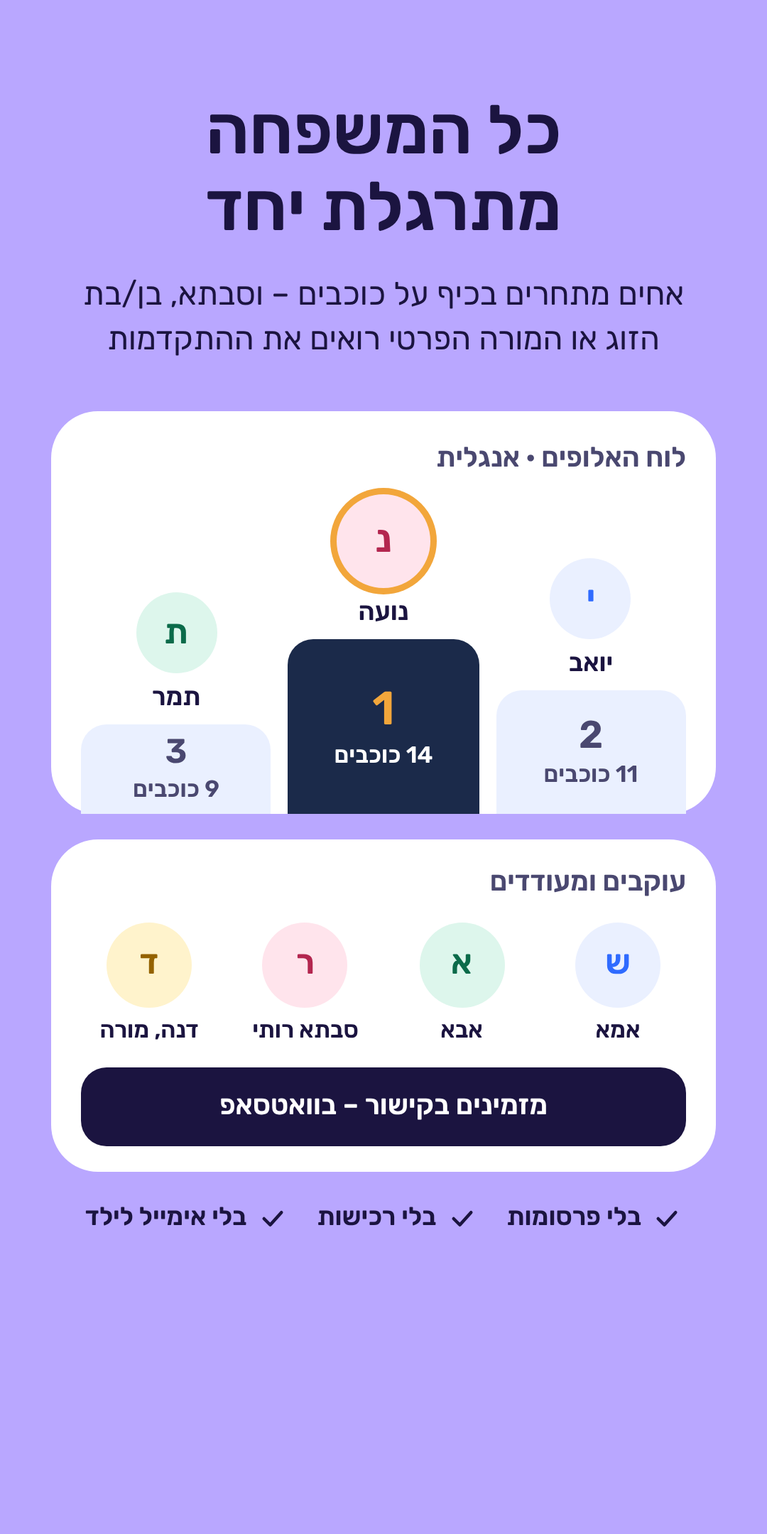
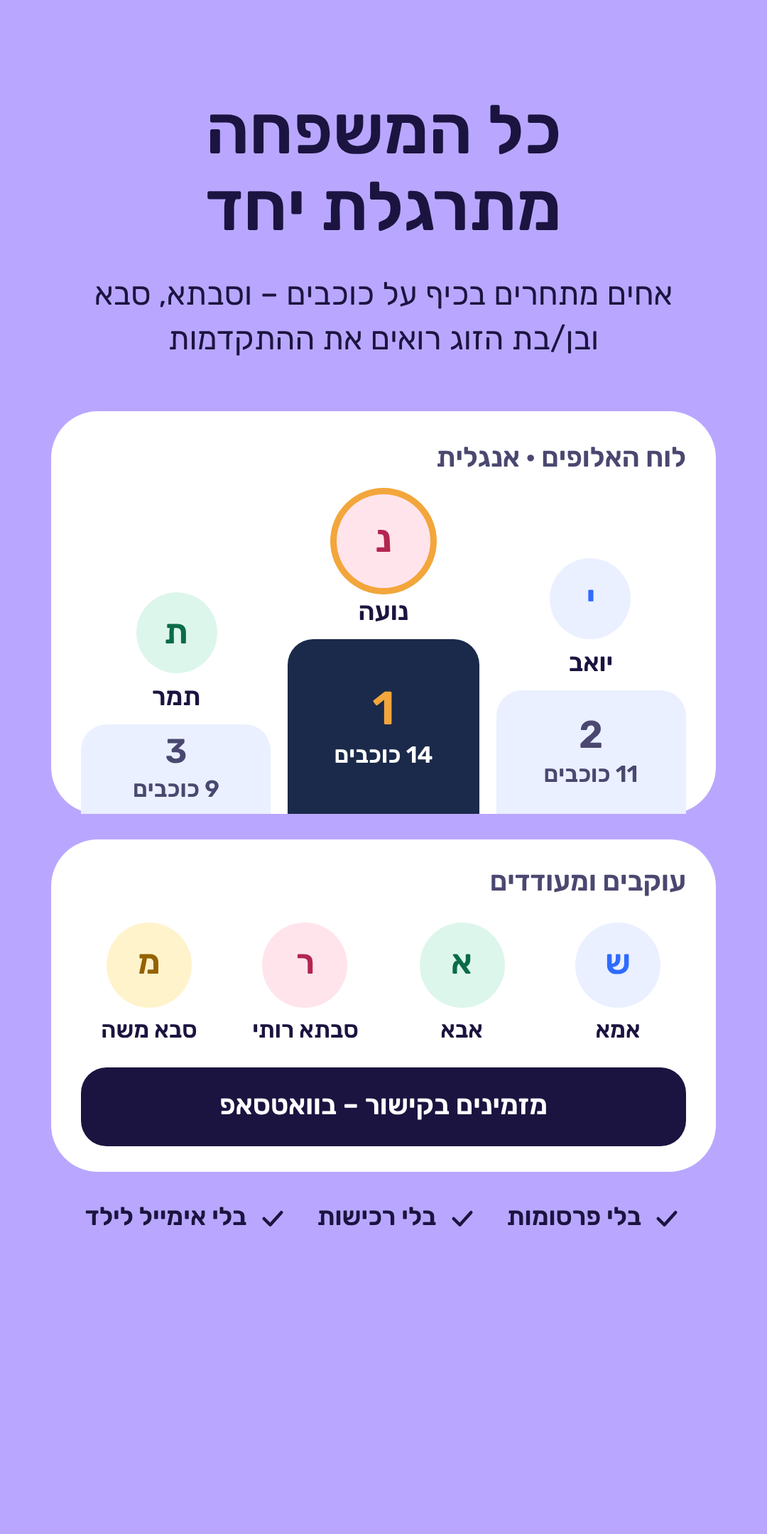
Store version for families: no ways into the teachers' app from the family app (TEACH_LINKS), family-only texts in the intro / store screens / guide, store pictures, listing; local_games: the loading screen in a local test
Claude-Session: https://claude.ai/code/session_018ARCFrnypinXbQosbA2nGK

diff --git a/public/index.html b/public/index.html
@@ -1549,6 +1549,9 @@ html.isadmin body:not(.locked) header .tabs[role=tablist]{display:inline-flex}
   const W = window, LS = W.localStorage;
   const TEACH = W.SFF_APP === 'teach', ACT = TEACH ? 'sff_active_teach' : 'sff_active_fam';   /* each app remembers its own open space */
 const EMAIL_LINK=false;   // true once Authentication → Sign-in method → Email/Password → Email link is enabled
+// the family app's ways into the teachers' app (sign-in ad, ☰ link, "to the teachers' app" for an adult with no family, a private
+// tutor's invitation): off while the store version is for families only (the owner's decision, 28.11); a test turns them on
+window.SFF_TEACH_ON=window.SFF_TEACH_LINKS===true; const TEACH_LINKS=window.SFF_TEACH_ON;
 const TERMS_VERSION = '2026-11-21';   // the date in tools/docs/terms-*.md (terms.html) – change both together; a new one is approved again
 const PRIVACY_VERSION = '2026-11-27'; // the date at the top of privacy.html – recorded with every approval (a change alone asks nothing again)
   W.__sffStage = 'module';
@@ -1754,7 +1757,7 @@ const PRIVACY_VERSION = '2026-11-27'; // the date at the top of privacy.html –
       else famInfo.splice(0, famInfo.length, ...famInfo.filter(x => x.kind !== 'class' && x.role !== 'tutor'));
       /* an adult with no family here (a teacher): to the teachers' app, or open a family of their own */
       if (!TEACH && !famInfo.length) {
-        const c = await familyChoice();
+        const c = TEACH_LINKS ? await familyChoice() : 'family';
         if (c === 'teach') { location.replace('/teach'); await new Promise(() => {}); }
         const own = F.doc(fdb, `families/${uid}`), os = await F.getDoc(own);
         const tok = os.exists() && os.data().inviteToken || rnd(18);
@@ -2049,7 +2052,7 @@ const PRIVACY_VERSION = '2026-11-27'; // the date at the top of privacy.html –
         el.querySelector('.fbwho').insertAdjacentHTML('beforeend', '<div class="hint fbtsub">כיתה, קבוצה או תלמידים פרטיים – וגם מורה פרטי/ת שמשפחה הזמינה</div>'); }
       /* the family app: a kid or a parent only – teachers are invited to their own app, below (the owner's decision, 27.11) */
       else { el.querySelector('#fbTeach').classList.add('hidden'); el.querySelector('.fbwho').classList.add('two');
-        el.querySelector('#fbErr').insertAdjacentHTML('afterend', `<div class="fbad"><span class="e" aria-hidden="true">🧑🏫</span><b>מורה? יש לנו אפליקציה בשבילך</b>
+        if (TEACH_LINKS) el.querySelector('#fbErr').insertAdjacentHTML('afterend', `<div class="fbad"><span class="e" aria-hidden="true">🧑🏫</span><b>מורה? יש לנו אפליקציה בשבילך</b>
           <span class="t">תרגול חוויתי במקום שיעורי בית – לכיתה או לתלמידים פרטיים. רואים מי תרגל, מי נתקע ומה כדאי לעשות היום.</span>
           <a id="fbTeachAd" href="/teach">לאפליקציה למורים ›</a></div><a class="fbother fbadl" id="fbTeachLink" href="/teach">🧑🏫 מורה? לאפליקציה למורים ›</a>`); }
       document.body.appendChild(el);
@@ -4918,7 +4921,7 @@ function placeItem(f,cur){ const on=f.id===cur, cls=f.kind==='class', priv=f.tea
 // both apps link to the other one in the account part (a teacher in the family app, everyone in the teachers' app)
 function menuArrange(TA, T){
   const acc=$('dGrpAcc')?.querySelector('.dcard'); if(!acc) return;
-  let o=$('dOtherApp'); if(!o&&(TA||T)){ acc.insertAdjacentHTML('afterbegin', TA?`<a class="ditem" id="dOtherApp" href="/"><span class="di">👨👩👧</span><span class="dl">לאפליקציה למשפחות</span><span class="dchev" aria-hidden="true">‹</span></a>`
+  let o=$('dOtherApp'); if(!o&&(TA||(T&&window.SFF_TEACH_ON))){ acc.insertAdjacentHTML('afterbegin', TA?`<a class="ditem" id="dOtherApp" href="/"><span class="di">👨👩👧</span><span class="dl">לאפליקציה למשפחות</span><span class="dchev" aria-hidden="true">‹</span></a>`
     :`<a class="ditem" id="dOtherApp" href="/teach"><span class="di">🧑🏫</span><span class="dl">לאפליקציה למורים</span><span class="dchev" aria-hidden="true">‹</span></a>`); }
   if(!TA||$('sideMenu').dataset.ta) return; $('sideMenu').dataset.ta='1';
   const panel=$('sideMenu').querySelector('.dpanel'), who=panel.querySelector('.dwho'); who.after($('dFams'));
@@ -5146,7 +5149,7 @@ function openInvite(){
   INV={role:'helper',kids:[]}; $('invName').value=''; $('invForm').classList.remove('hidden'); $('invDone').classList.add('hidden'); invRender(); $('invDlg').classList.remove('hidden');
 }
 function invRender(){
-  $('invRoles').innerHTML=['helper','tutor','admin'].map(r=>`<button class="${INV.role===r?'on':''}" onclick="INV.role='${r}';invRender()"><b>${ROLES[r][0]} ${ROLES[r][1]}</b><small>${ROLES[r][2]}</small></button>`).join('');
+  $('invRoles').innerHTML=(window.SFF_TEACH_ON?['helper','tutor','admin']:['helper','admin']).map(r=>`<button class="${INV.role===r?'on':''}" onclick="INV.role='${r}';invRender()"><b>${ROLES[r][0]} ${ROLES[r][1]}</b><small>${ROLES[r][2]}</small></button>`).join('');
   $('invKidsWrap').classList.toggle('hidden',INV.role!=='tutor');
   $('invKids').innerHTML=kids.map(k=>`<button class="${INV.kids.includes(k.id)?'on':''}" onclick="INV.kids=INV.kids.includes('${k.id}')?INV.kids.filter(x=>x!=='${k.id}'):INV.kids.concat('${k.id}');invRender()">${esc(k.name)}</button>`).join('');
 }
@@ -5234,7 +5237,7 @@ const INTRO={
       <div style="background:#2F6BFF">${IC.sv('#fff',26,IC.pad)}<b>משחק כיפי</b><span style="color:#E4ECFF">תחנה = משחק אחר</span></div>
       <div style="background:#F2A63B;color:#1B2A4A">${IC.sv('#1B2A4A',26,IC.doc)}<b>החומר שלכם</b><span>מצלמים דף – יש תרגול</span></div>
       <div style="background:#24C78E;color:#0E2E22">${IC.sv('#0E2E22',26,IC.bars)}<b>מעקב להורה</b><span>מה יודע, מה לחזק</span></div>
-      <div style="background:#FF5C8A;color:#3A0716">${IC.sv('#3A0716',26,IC.ppl)}<b>כל המשפחה</b><span>אחים, סבתא, מורה</span></div>
+      <div style="background:#FF5C8A;color:#3A0716">${IC.sv('#3A0716',26,IC.ppl)}<b>כל המשפחה</b><span>${window.SFF_TEACH_ON?'אחים, סבתא, מורה':'אחים, סבא וסבתא'}</span></div>
       <div class="iwide" style="background:#B9A7FF;color:#1B1440">${IC.sv('#1B1440',26,IC.target,2.2)}<div><b>תרגול ממוקד</b><span>נבנה לבד מהטעויות – רק מה שעוד לא יושב</span></div></div>
     </div>
     <div style="flex:1 0 18px" aria-hidden="true"></div>${iMap()}`}),
@@ -5294,7 +5297,7 @@ Object.assign(INTRO,{
     <h1 style="margin-top:12px;font-size:32px">מתחילים<br><span style="color:#F2A63B">ב-3 צעדים</span></h1>
     <p style="margin-top:10px;max-width:300px;color:#D5DEF2">פחות מ-2 דקות, והילד כבר משחק</p>
     <div style="margin-top:18px;width:100%;display:flex;flex-direction:column;gap:10px">${st(1,'מוסיפים ילד','שם וכיתה – זהו',1)}${st(2,'בוחרים תרגול','מוכן מהקטלוג, או מצלמים את החומר')}${st(3,'שולחים לילד קישור','בוואטסאפ – והוא נכנס בלי סיסמה')}</div>
-    <div style="margin-top:16px;display:flex;flex-wrap:wrap;justify-content:center;gap:6px 14px;font-size:12px;color:#B9C6E4">${li('בלי פרסומות')}${li('בלי רכישות לילד')}${li('אפשר לצרף את בן/בת הזוג, סבתא או מורה')}</div>`}; }
+    <div style="margin-top:16px;display:flex;flex-wrap:wrap;justify-content:center;gap:6px 14px;font-size:12px;color:#B9C6E4">${li('בלי פרסומות')}${li('בלי רכישות לילד')}${li(window.SFF_TEACH_ON?'אפשר לצרף את בן/בת הזוג, סבתא או מורה':'אפשר לצרף את בן/בת הזוג, סבא או סבתא')}</div>`}; }
 });
 /* the store's 5th screen (the canvas's StoreFamily – store only, not in any intro): siblings compete, adults follow, safe for kids */
 INTRO.family=K=>{ const kid=(nm,bg,c,place,pts,h,top)=>`<div style="flex:1;display:flex;flex-direction:column;align-items:center;gap:4px">${iAva(nm,bg,c,top?44:38,top?18:16,top?'box-shadow:0 0 0 3px #F2A63B':'')}<b style="font-size:12px"><bdi>${esc(iT(nm))}</bdi></b>
@@ -5302,11 +5305,11 @@ INTRO.family=K=>{ const kid=(nm,bg,c,place,pts,h,top)=>`<div style="flex:1;displ
     adult=(t,l,bg,c)=>`<div style="display:flex;flex-direction:column;align-items:center;gap:4px;width:64px">${iAva(l,bg,c,40,16)}<span>${t}</span></div>`,
     li=t=>`<span style="display:flex;align-items:center;gap:5px">${IC.sv('#1B1440',14,IC.ok,2.6)}${t}</span>`;
   return {bg:'#B9A7FF', html:`<h1 style="margin-top:4px;font-size:32px;color:#1B1440">כל המשפחה<br>מתרגלת יחד</h1>
-    <p style="color:#1B1440;max-width:300px">אחים מתחרים בכיף על כוכבים – וסבתא, בן/בת הזוג או המורה הפרטי רואים את ההתקדמות</p>
+    <p style="color:#1B1440;max-width:300px">${window.SFF_TEACH_ON?'אחים מתחרים בכיף על כוכבים – וסבתא, בן/בת הזוג או המורה הפרטי רואים את ההתקדמות':'אחים מתחרים בכיף על כוכבים – וסבתא, סבא ובן/בת הזוג רואים את ההתקדמות'}</p>
     <div class="icard" style="margin-top:22px;padding:14px 14px 0;gap:8px;border-radius:22px;color:#1B1440"><b style="font-size:13px;color:#4A4870">לוח האלופים · אנגלית</b>
       <div style="display:flex;align-items:flex-end;justify-content:center;gap:8px">${kid('יואב','#EAF0FF','#2F6BFF',2,11,58)}${kid('נועה','#FFE4EC','#B3264F',1,14,82,1)}${kid('תמר','#DDF6EC','#0B6B4A',3,9,42)}</div></div>
     <div class="icard" style="margin-top:12px;padding:12px 14px;gap:10px;border-radius:22px;color:#1B1440"><b style="font-size:13px;color:#4A4870">עוקבים ומעודדים</b>
-      <div style="display:flex;justify-content:space-between;text-align:center;font-size:11px;font-weight:700">${adult('אמא','שירה','#EAF0FF','#2F6BFF')}${adult('אבא','אבא','#DDF6EC','#0B6B4A')}${adult('סבתא רותי','רותי','#FFE4EC','#B3264F')}${adult('דנה, מורה','דנה','#FFF3CC','#946200')}</div>
+      <div style="display:flex;justify-content:space-between;text-align:center;font-size:11px;font-weight:700">${adult('אמא','שירה','#EAF0FF','#2F6BFF')}${adult('אבא','אבא','#DDF6EC','#0B6B4A')}${adult('סבתא רותי','רותי','#FFE4EC','#B3264F')}${window.SFF_TEACH_ON?adult('דנה, מורה','דנה','#FFF3CC','#946200'):adult('סבא משה','משה','#FFF3CC','#946200')}</div>
       <div style="background:#1B1440;color:#fff;border-radius:12px;padding:10px;text-align:center;font-size:13px;font-weight:700">מזמינים בקישור – בוואטסאפ</div></div>
     <div style="margin-top:14px;display:flex;flex-wrap:wrap;justify-content:center;gap:6px 14px;font-size:12px;font-weight:700;color:#1B1440">${li('בלי פרסומות')}${li('בלי רכישות')}${li('בלי אימייל לילד')}</div>`}; };
 const INTRO_SETS={parent:['main','material','track','start'], kid:['play','compete']};

diff --git a/public/i18n.js b/public/i18n.js
@@ -271,7 +271,7 @@
     'רואים מה יושב': "See what's solid", 'ומחזקים בלחיצה': 'and strengthen it in a tap', '84% הצלחה': '84% success', 'תרגול ממוקד · 3 מילים': 'Focused practice · 3 words', 'אחר כך תראו מה תוקן ✓': "Later you'll see what got fixed ✓",
     'פחות מ-2 דקות, והילד כבר משחק': 'Under 2 minutes, and your kid is already playing', 'מוסיפים ילד': 'Add a kid', 'שם וכיתה – זהו': "Name and grade – that's it", 'בוחרים תרגול': 'Pick a practice set',
     'מוכן מהקטלוג, או מצלמים את החומר': 'Ready from the catalog, or snap the material', 'בוואטסאפ – והוא נכנס בלי סיסמה': 'On WhatsApp – they get in with no password',
-    'בלי פרסומות': 'No ads', 'בלי רכישות לילד': 'No purchases for the kid', 'אפשר לצרף את בן/בת הזוג, סבתא או מורה': 'Add your partner, grandma or a tutor', 'עוד למטה': 'More below',
+    'בלי פרסומות': 'No ads', 'בלי רכישות לילד': 'No purchases for the kid', 'אפשר לצרף את בן/בת הזוג, סבתא או מורה': 'Add your partner, grandma or a tutor', 'אפשר לצרף את בן/בת הזוג, סבא או סבתא': 'Add your partner or the grandparents', 'אחים, סבא וסבתא': 'Siblings, grandparents', 'אחים מתחרים בכיף על כוכבים – וסבתא, סבא ובן/בת הזוג רואים את ההתקדמות': 'Siblings compete for stars, just for fun – and grandma, grandpa and your partner see the progress', 'סבא משה': 'Grandpa Moshe', 'משה': 'Moshe', 'עוד למטה': 'More below',
     "המפה של נועה · אנגלית": "Emma's map · English", 'עוד 3 ימים למבחן': '3 days to the test', 'פרק 1': 'Ch. 1', 'פרק 2': 'Ch. 2', 'פרק 4': 'Ch. 4',
     'כל תחנה – משחק אחר · כוכב = עברה את הפרק': 'Every stop is a different game · a star = chapter passed',
     'מתרגלת יחד': 'practises together', 'אחים מתחרים בכיף על כוכבים – וסבתא, בן/בת הזוג או המורה הפרטי רואים את ההתקדמות': 'Siblings compete for stars, just for fun – and grandma, your partner or the tutor see the progress',

diff --git a/public/guide.html b/public/guide.html
@@ -167,8 +167,8 @@ html[lang=he] [data-l=he], html[lang=en] [data-l=en]{display:block}
 <p>תרגול שהסתיים עובר לסקשן נפרד, <b>✓ תרגולים שהסתיימו</b>, מתחת לתרגולים הפעילים.</p>
 <h2 id="he-s10">👨👩👧 המשפחה והמבוגרים</h2>
 <ul>
-<li>אפשר להזמין מבוגר נוסף: בן/בת זוג, סבא או סבתא, מורה פרטי.</li>
-<li>תפקידים: מנהל/ת (הכול), מלווה (רואה התקדמות ומוסיף תרגולים), מורה (רק לילדים שנבחרו).</li>
+<li>אפשר להזמין מבוגר נוסף: בן/בת זוג, סבא או סבתא.</li>
+<li>תפקידים: מנהל/ת (הכול), מלווה (רואה התקדמות ומוסיף תרגולים).</li>
 <li>ההזמנה נשלחת בוואטסאפ או בהעתקה, ותקפה 7 ימים.</li>
 </ul>
 <h2 id="he-s11">🏅 תחרות בין הילדים</h2>
@@ -308,8 +308,8 @@ html[lang=he] [data-l=he], html[lang=en] [data-l=en]{display:block}
 <p>A finished practice set moves to a separate section, <b>✓ Finished practice sets</b>, below the active ones.</p>
 <h2 id="en-s10">👨👩👧 Family &amp; adults</h2>
 <ul>
-<li>You can invite another adult: a partner, a grandparent, a private tutor.</li>
-<li>Roles: manager (everything), helper (sees progress and adds practice sets), tutor (chosen kids only).</li>
+<li>You can invite another adult: a partner or a grandparent.</li>
+<li>Roles: manager (everything), helper (sees progress and adds practice sets).</li>
 <li>The invitation is sent on WhatsApp or copied, and is valid for 7 days.</li>
 </ul>
 <h2 id="en-s11">🏅 Competition between the kids</h2>

diff --git a/tools/tests/local_games.js b/tools/tests/local_games.js
@@ -6,7 +6,7 @@ const OUT = process.env.OUT || require('os').tmpdir();   // screenshots never la
   const b = await chromium.launch(); const p = await (await b.newContext({ viewport: { width: 390, height: 844 }, deviceScaleFactor: 2 })).newPage();
   const errs = []; p.on('pageerror', e => errs.push(e.message));
   await p.addInitScript(() => localStorage.setItem('sff_lang', 'he'));
-  await p.goto('http://localhost:8765/', { waitUntil: 'load' }); await p.waitForTimeout(1800); await p.evaluate(() => document.getElementById('fbLogin')?.remove());
+  await p.goto('http://localhost:8765/', { waitUntil: 'load' }); await p.waitForTimeout(1800); await p.evaluate(() => { document.getElementById('fbLogin')?.remove(); document.getElementById('sffLoad')?.remove(); });   // no cloud in a local test: the loading screen would cover the page
   const r = await p.evaluate(async () => {
     const s = await loadShare('en4-nov26'); s.id = 't1'; s.questions = s.qs; kids.push({ id: 'k1', name: 'עדי', grade: 3, color: '#FF5C8A' }); s.kidId = 'k1'; sets.push(s);
     const vis = id => !document.getElementById(id).classList.contains('hidden');

diff --git a/store/play-listing.md b/store/play-listing.md
@@ -31,7 +31,7 @@ Study for fun – למידה חוויתית של מקצועות הליבה: אנ
 התרגול הסתיים? האפליקציה בונה לבד תרגול רק מהטעויות של הילד – בחינם, בלחיצה. התרגול הממוקד מחכה לילד ראשון, וההורה רואה מה כבר תוקן ומה עוד לחזק.
 
 👨👩👧 כל המשפחה מלווה
-אפשר לשתף בן/בת זוג, סבא וסבתא או מורה פרטי במעקב ההתקדמות ובחיזוק.
+אפשר לשתף בן/בת זוג, סבא וסבתא במעקב ההתקדמות ובחיזוק.
 
 🗓 תרגול לפי החומר ועד יום המבחן
 התרגול נבנה לפי החומר הספציפי של המבחן, והמפה מחלקת את הפרקים עד תאריך המבחן.
@@ -45,7 +45,7 @@ by D-WAY
 ## English (optional second language)
 Short: Playful learning in English, math, language and science – tailored to the test material and date.
 
-Full: Study for fun turns test prep into a game. The parent picks a practice set and the test date. The kid gets a map of every chapter until test day, with a different game at every station: picture questions, memory, matching and spelling with spoken English words. Chapters with 70%+ earn a star; the rest stay open for another try. "What I know" shows what to strengthen. Parents follow each kid's progress and can invite other adults – a partner, grandparents or a private tutor; siblings compete for stars on a friendly leaderboard.
+Full: Study for fun turns test prep into a game. The parent picks a practice set and the test date. The kid gets a map of every chapter until test day, with a different game at every station: picture questions, memory, matching and spelling with spoken English words. Chapters with 70%+ earn a star; the rest stay open for another try. "What I know" shows what to strengthen. Parents follow each kid's progress and can invite other adults – a partner or grandparents; siblings compete for stars on a friendly leaderboard.
 
 🎯 Focused practice – exactly what's missing: when a set is done, the app builds a practice set from the kid's mistakes only – free, in one tap. It waits for the kid first, and the parent sees what's fixed.
 
@@ -54,6 +54,7 @@ Full: Study for fun turns test prep into a game. The parent picks a practice set
 ---
 
 ## טופס "Data safety"
+> גרסת החנות היא למשפחות בלבד (28.11): אין בה כניסה לאפליקציית המורים. השורות על מורים (הערות, חתימת הסכמה, בקשת הצטרפות) נשארות בטופס בכוונה – קישור הצטרפות של מורה (`/?join=`) עדיין נפתח באפליקציה, וגוגל מתירים להצהיר על יותר ממה שנאסף, לא על פחות.
 | שאלה | תשובה |
 |---|---|
 | האם האפליקציה אוספת או משתפת מידע? | כן, אוספת. לא משתפת עם צד שלישי (ספקי שירות שמעבדים בשבילנו – Firebase, שירות ה-AI – לא נחשבים "שיתוף" בטופס) |
@@ -113,3 +114,7 @@ Full: Study for fun turns test prep into a game. The parent picks a practice set
 - כל טענה בתמונות נבדקה מול הקוד. משנים טקסט ב-`INTRO` ב-index.html (ובתרגום ב-i18n.js) ומריצים שוב את הסקריפט.
 
 ⚠ כשייפתח תשלום על תרגולים נוספים (קרדיטים ב-startBuild): לעדכן כאן את "בלי רכישות" בתיאור ובאנגלית ("no in-app purchases"), ובטופס IARC "רכישות דיגיטליות? כן". במסך 5 כתוב "בלי רכישות", ובמסך 4 של ההיכרות "בלי רכישות לילד" – זה נשאר נכון, כי התשלום הוא רק אצל ההורה.
+
+## תוכן שנוצר ב-AI (מדיניות AI-Generated Content)
+- תרגולים חדשים נבנים ב-AI (Claude) מהחומר שההורה מעלה; תרגולי הקטלוג נכתבו ונבדקו מראש.
+- דיווח מתוך האפליקציה: 🚩 בכל שאלה במשחק (דיווח על שאלה שגויה או לא מתאימה – נבדק ומתוקן), ו-☰ → "דיווח על תקלה או רעיון". שניהם נשמרים אצלנו (☰ → דיווחים מהמשתמשים).

diff --git a/tools/docs/guide-he.md b/tools/docs/guide-he.md
@@ -140,8 +140,8 @@ Study for fun היא אפליקציה שבה ילדים מתרגלים חומר 
 
 ## 👨👩👧 המשפחה והמבוגרים
 
-- אפשר להזמין מבוגר נוסף: בן/בת זוג, סבא או סבתא, מורה פרטי.
-- תפקידים: מנהל/ת (הכול), מלווה (רואה התקדמות ומוסיף תרגולים), מורה (רק לילדים שנבחרו).
+- אפשר להזמין מבוגר נוסף: בן/בת זוג, סבא או סבתא.
+- תפקידים: מנהל/ת (הכול), מלווה (רואה התקדמות ומוסיף תרגולים).
 - ההזמנה נשלחת בוואטסאפ או בהעתקה, ותקפה 7 ימים.
 
 ## 🏅 תחרות בין הילדים

diff --git a/tools/docs/guide-en.md b/tools/docs/guide-en.md
@@ -140,8 +140,8 @@ A finished practice set moves to a separate section, **✓ Finished practice set
 
 ## 👨👩👧 Family & adults
 
-- You can invite another adult: a partner, a grandparent, a private tutor.
-- Roles: manager (everything), helper (sees progress and adds practice sets), tutor (chosen kids only).
+- You can invite another adult: a partner or a grandparent.
+- Roles: manager (everything), helper (sees progress and adds practice sets).
 - The invitation is sent on WhatsApp or copied, and is valid for 7 days.
 
 ## 🏅 Competition between the kids
